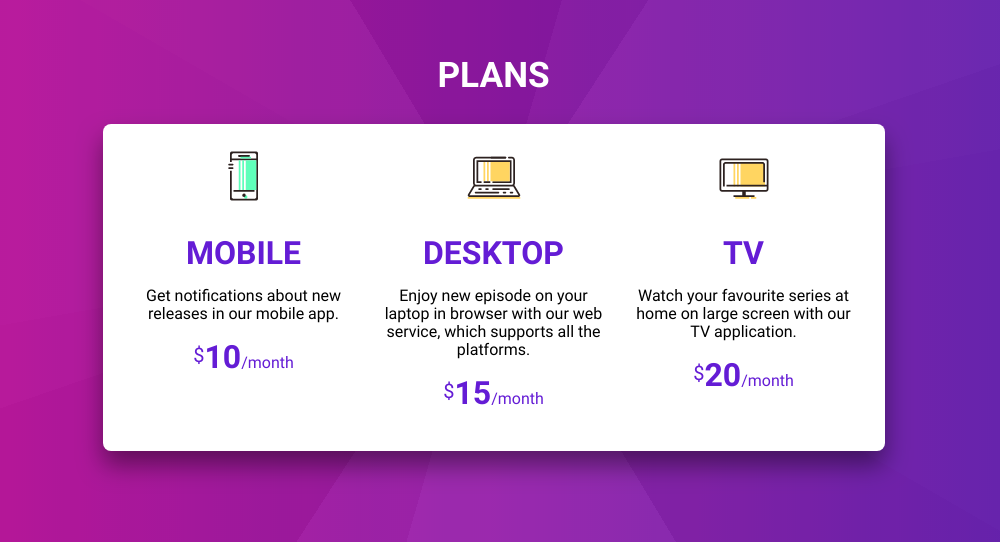
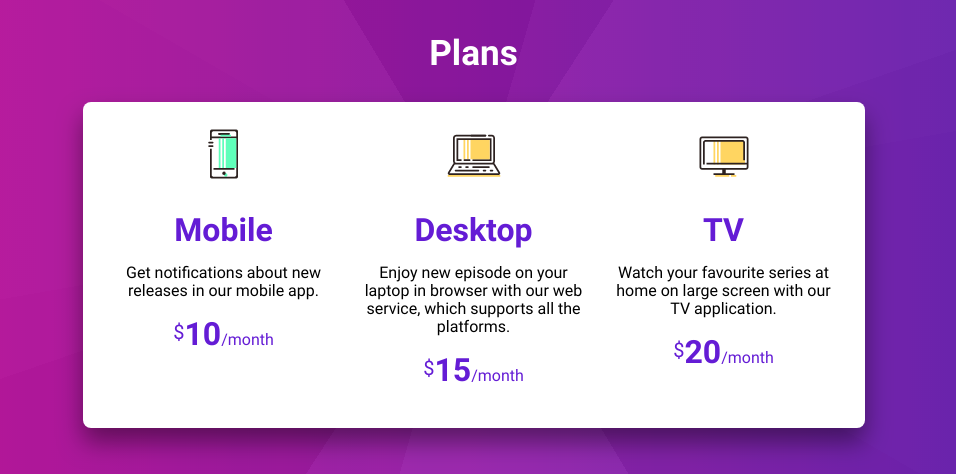
turn uppercase txt to normal

diff --git a/1-plan_picker/styles.css b/1-plan_picker/styles.css
@@ -1,5 +1,5 @@
 :root {
-  --blue: rgb(100, 28, 213);
+  --primary: rgb(100, 28, 213);
   font-size: 16px;
 }
 
@@ -68,15 +68,14 @@ body {
 
 h1 {
   color: #fff;
-  text-transform: uppercase;
   text-align: center;
   font-size: 2.2rem;
 }
 
 h2 {
   font-size: 2rem;
-  text-transform: uppercase;
-  color: var(--blue);
+  color: var(--primary);
+  margin-bottom: 0.5rem;
 }
 
 .plan-picker {
@@ -134,5 +133,5 @@ p.plan-description {
 }
 
 .plan .plan-price {
-  color: var(--blue);
+  color: var(--primary);
 }
